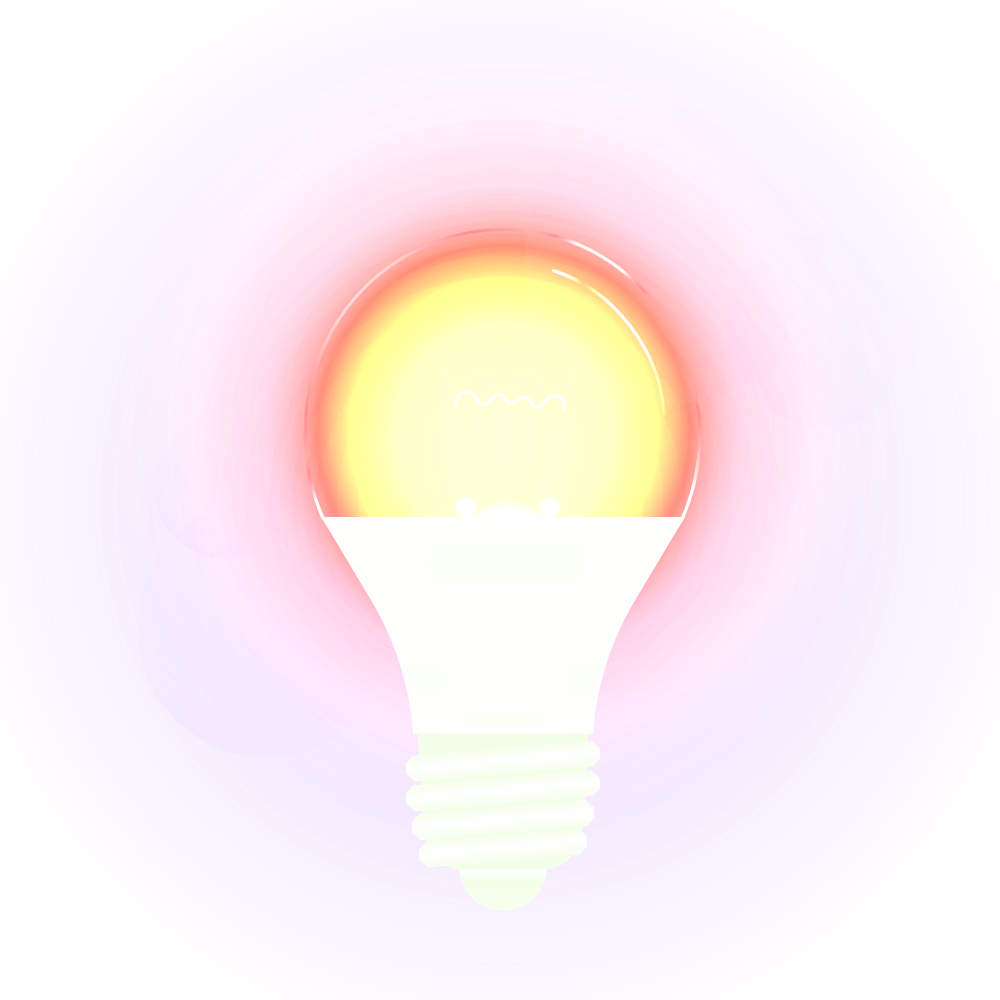
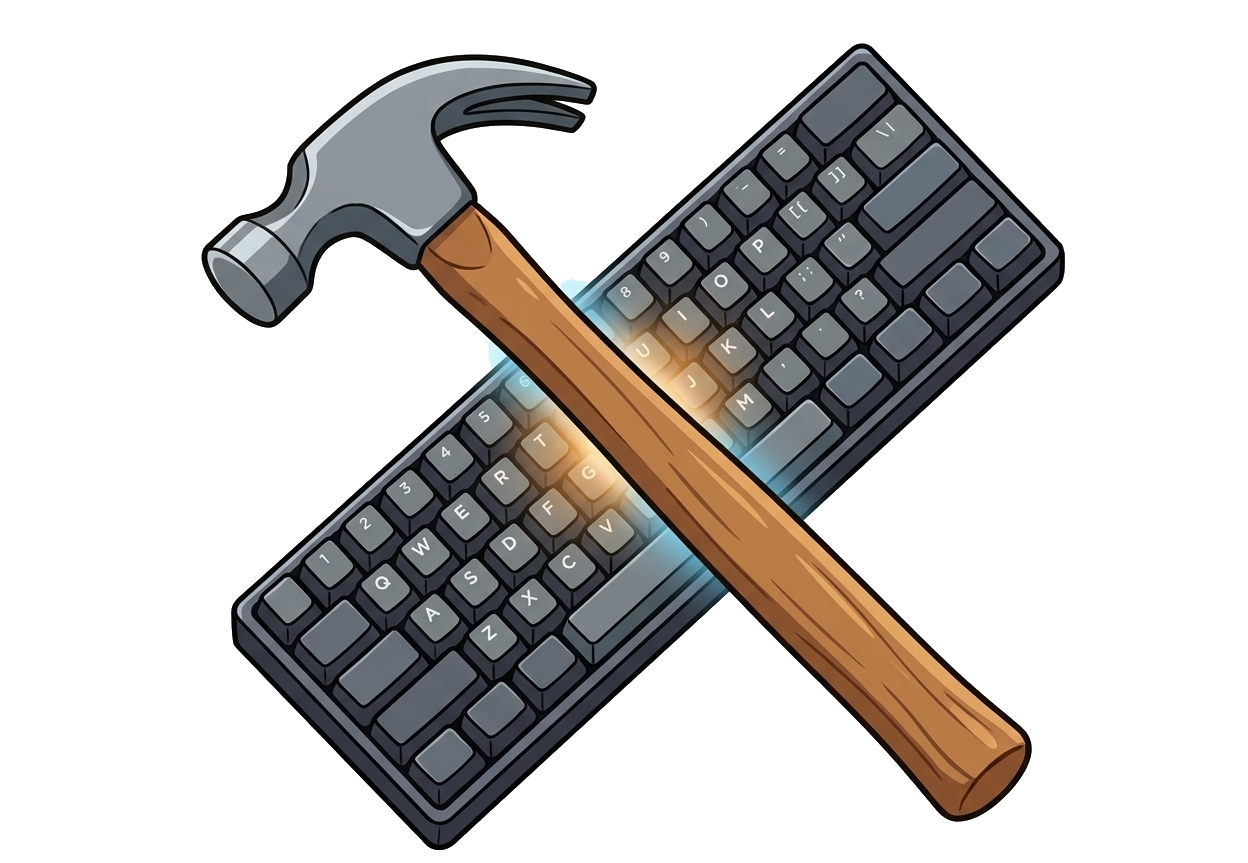
big visual improvement with comic face etc

diff --git a/src/app.css b/src/app.css
@@ -144,6 +144,8 @@ html, body {
     flex-direction: column;
     justify-content: flex-start;
     gap: 8px;
+
+    text-shadow: 0px 1px 3px rgba(0, 0, 0, 1.0);
 }
 
 .card-title {
@@ -180,18 +182,23 @@ html, body {
 }
 
 .card-border.portfolio {
+    background-image: url("/images/ahaa.png");
+    background-size: contain;
+    background-repeat: no-repeat;
+    border-image: linear-gradient(135deg, #3acfd5 0%, #3a4ed5 100%) 1;
 }
 
 .card:hover .card-border.portfolio {
-    border-image: linear-gradient(135deg, #3acfd5 0%, #3a4ed5 100%) 1;
     box-shadow: 0 0 20px rgb(0, 128, 255);
 }
 
 .card-border.mentoring {
-}
+    background-image: url("/images/icon-mentoring.png");
+    background-size: contain;
+    background-repeat: no-repeat;
+    border-image: linear-gradient(135deg, #ff47f3 0%, #304cff 100%) 1;}
 
 .card:hover .card-border.mentoring {
-    border-image: linear-gradient(135deg, #ff47f3 0%, #304cff 100%) 1;
     box-shadow: 0 0 20px color-mix(in srgb, #ff47f3 50%, #304cff 50%);
 }
 
